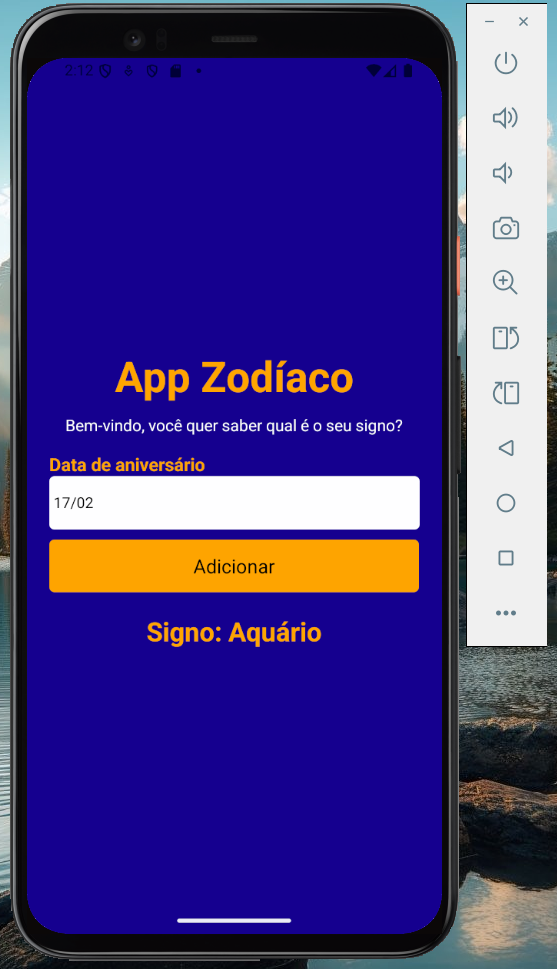
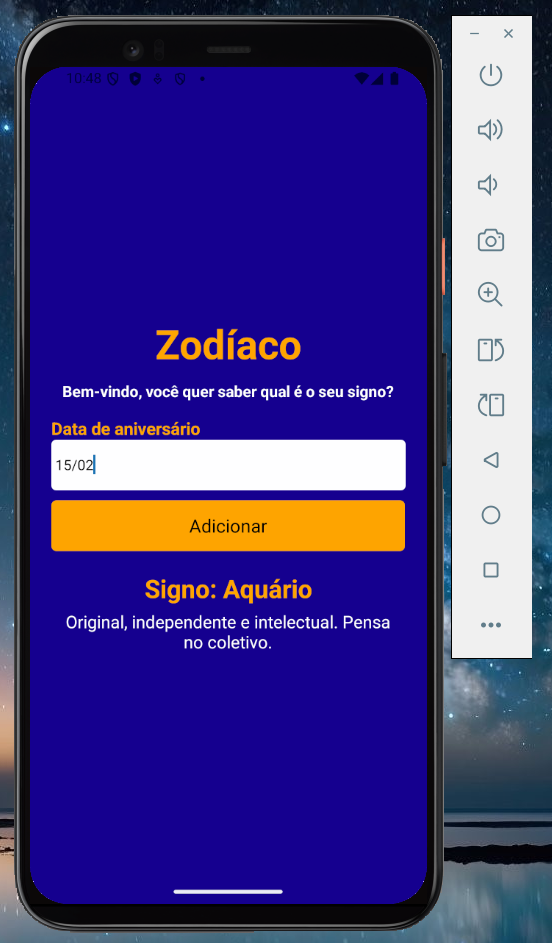
zodiaco

diff --git a/App/App.js b/App/App.js
@@ -4,6 +4,7 @@ import { StyleSheet, Text, View, TextInput, TouchableOpacity } from 'react-nativ
 export default function App() {
   const[aniversario, setAniversario] = useState('');
   const[signo, setSigno] = useState('');
+  const[resumoSigno, setResumoSigno] = useState('');
 
   // Função para descrobir o Signo
   const descobrirSigno = (data) => {
@@ -32,14 +33,35 @@ export default function App() {
     return 'Data inválida';
   }
 
+  // Resumo de cada signo
+  const resumoSignos = {
+    'Áries': 'Corajoso, determinado e impulsivo. Gosta de desafios.',
+    'Touro': 'Confiável, paciente e prático. Valoriza segurança e conforto.',
+    'Gêmeos': 'Comunicativo, curioso e versátil. Adora aprender coisas novas.',
+    'Câncer': 'Emocional, protetor e sensível. Valoriza a família e o lar.',
+    'Leão': 'Confiante, generoso e dramático. Gosta de ser o centro das atenções.',
+    'Virgem': 'Analítico, cuidadoso e prestativo. Gosta de organização.',
+    'Libra': 'Diplomático, sociável e justo. Busca harmonia nas relações.',
+    'Escorpião': 'Intenso, apaixonado e reservado. Muito determinado.',
+    'Sagitário': 'Otimista, aventureiro e honesto. Ama liberdade.',
+    'Capricórnio': 'Disciplinado, responsável e prático. Focado em objetivos.',
+    'Aquário': 'Original, independente e intelectual. Pensa no coletivo.',
+    'Peixes': 'Intuitivo, empático e sonhador. Muito sensível ao ambiente.'
+  }
+
   // Função para adicionar
   const adicionar = () => {
     const resultado = descobrirSigno(aniversario);
     setSigno(resultado);
+    if(resumoSignos[resultado]) {
+      setResumoSigno(resumoSignos[resultado]);
+    }else {
+      setResumoSigno('Resumo não disponivel ou data inválida.');
+    }
   }
   return (
     <View style={styles.container}>
-      <Text style={styles.titulo}>App Zodíaco</Text>
+      <Text style={styles.titulo}>Zodíaco</Text>
       <Text style={styles.texto}>Bem-vindo, você quer saber qual é o seu signo?</Text>
         <View style={{ margin: 10 }}>
           <Text style={{ fontWeight: 'bold', fontSize: 17, color: "#ffa500" }}>Data de aniversário</Text>
@@ -50,12 +72,13 @@ export default function App() {
             value={aniversario}
             onChangeText={setAniversario}
           />
-          <TouchableOpacity style={styles.botao} onPress={adicionar}>
+          <TouchableOpacity style={styles.botao} onPress={adicionar} activeOpacity={0.7}>
             <Text style={{ color: "#000", fontSize: 18 }}>Adicionar</Text>
           </TouchableOpacity>
         </View>
-        <View style={{ marginTop: 10 }}>
+        <View style={{ marginTop: 10, width: 350 }}>
           <Text style={styles.subTitulo}>{signo ? `Signo: ${signo}` : 'Nome'}</Text>
+          <Text style={styles.textoResumo}>{resumoSigno}</Text>
         </View>
     </View>
   );
@@ -78,7 +101,8 @@ const styles = StyleSheet.create({
   texto: {
     margin: 5,
     fontSize: 15,
-    color: "#FFF"
+    color: "#FFF",
+    fontWeight: 'bold'
   },
   input: {
     width: 350,
@@ -100,5 +124,11 @@ const styles = StyleSheet.create({
     fontWeight: 'bold', 
     textAlign: 'center',
     color: "#ffa500"
+  },
+  textoResumo: {
+    margin: 5,
+    fontSize: 17,
+    color: '#FFF',
+    textAlign: 'center'
   }
 });
